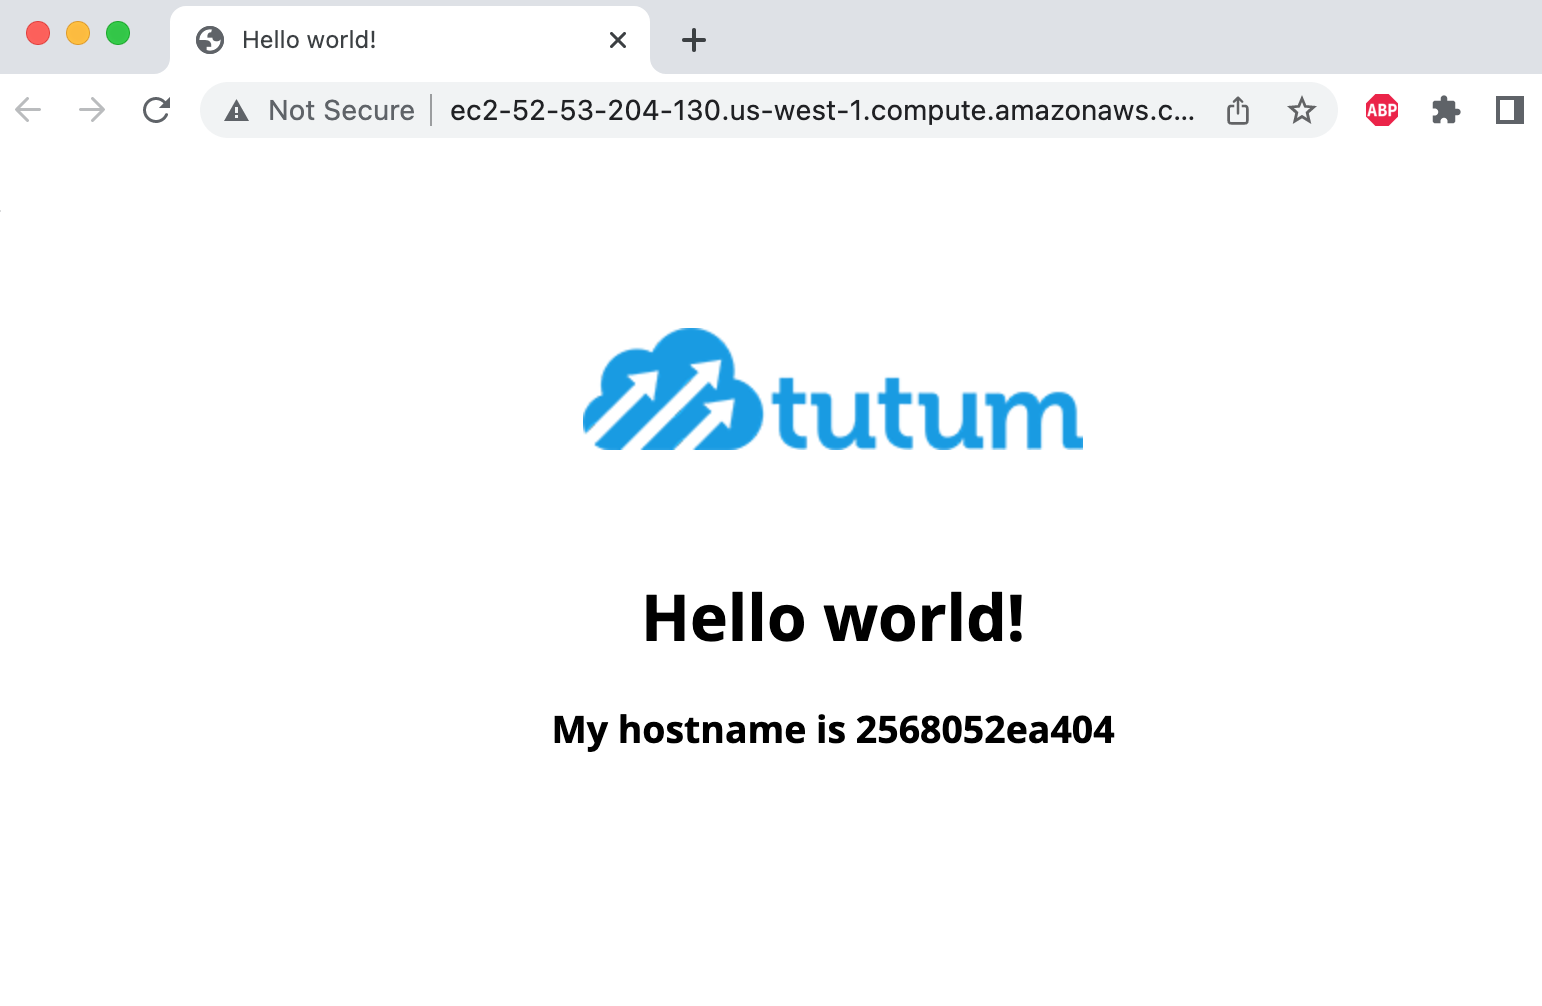
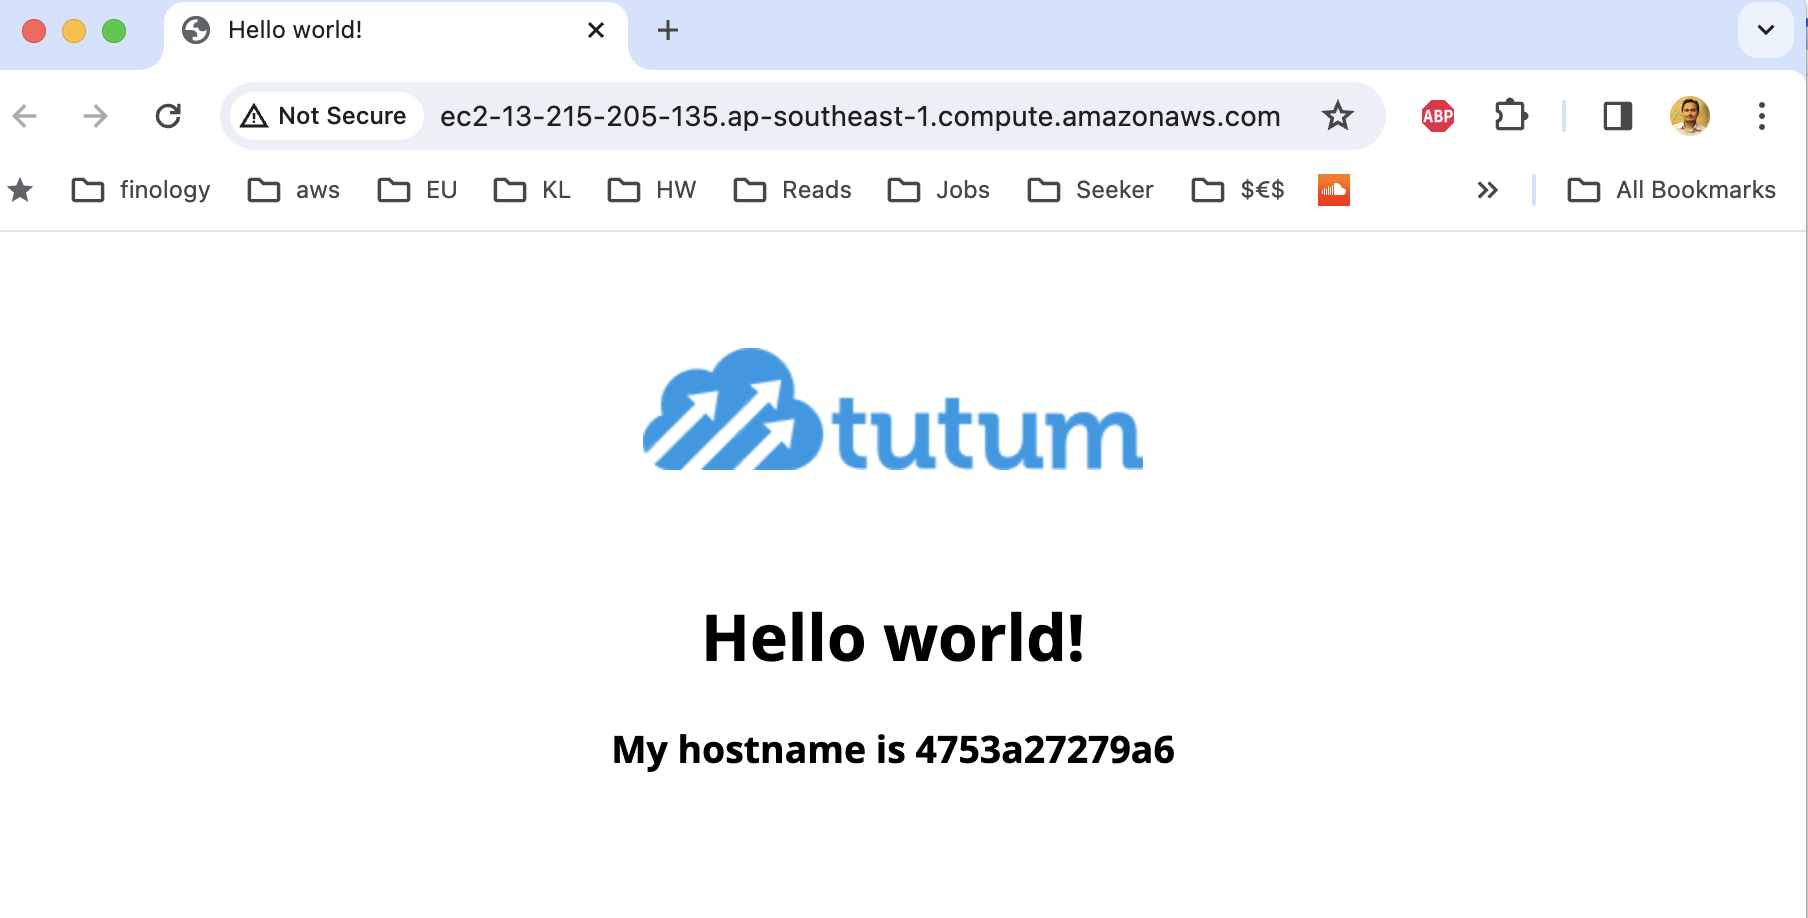
Updates config for muaksite

diff --git a/README.md b/README.md
@@ -45,7 +45,6 @@ $ terraform destroy
 ### Configuration
 
 - Terraform should be installed
-- ⚠ AWS Credentials should be setup as defualt profile of local machine
 
 ### Pre-reqs
 
@@ -56,3 +55,7 @@ $ terraform destroy
 ## Contribution
 
 - Forks are always appreciated
+
+---
+
+![Infrastructure](/screenshots/2-ec2-docker.png)
